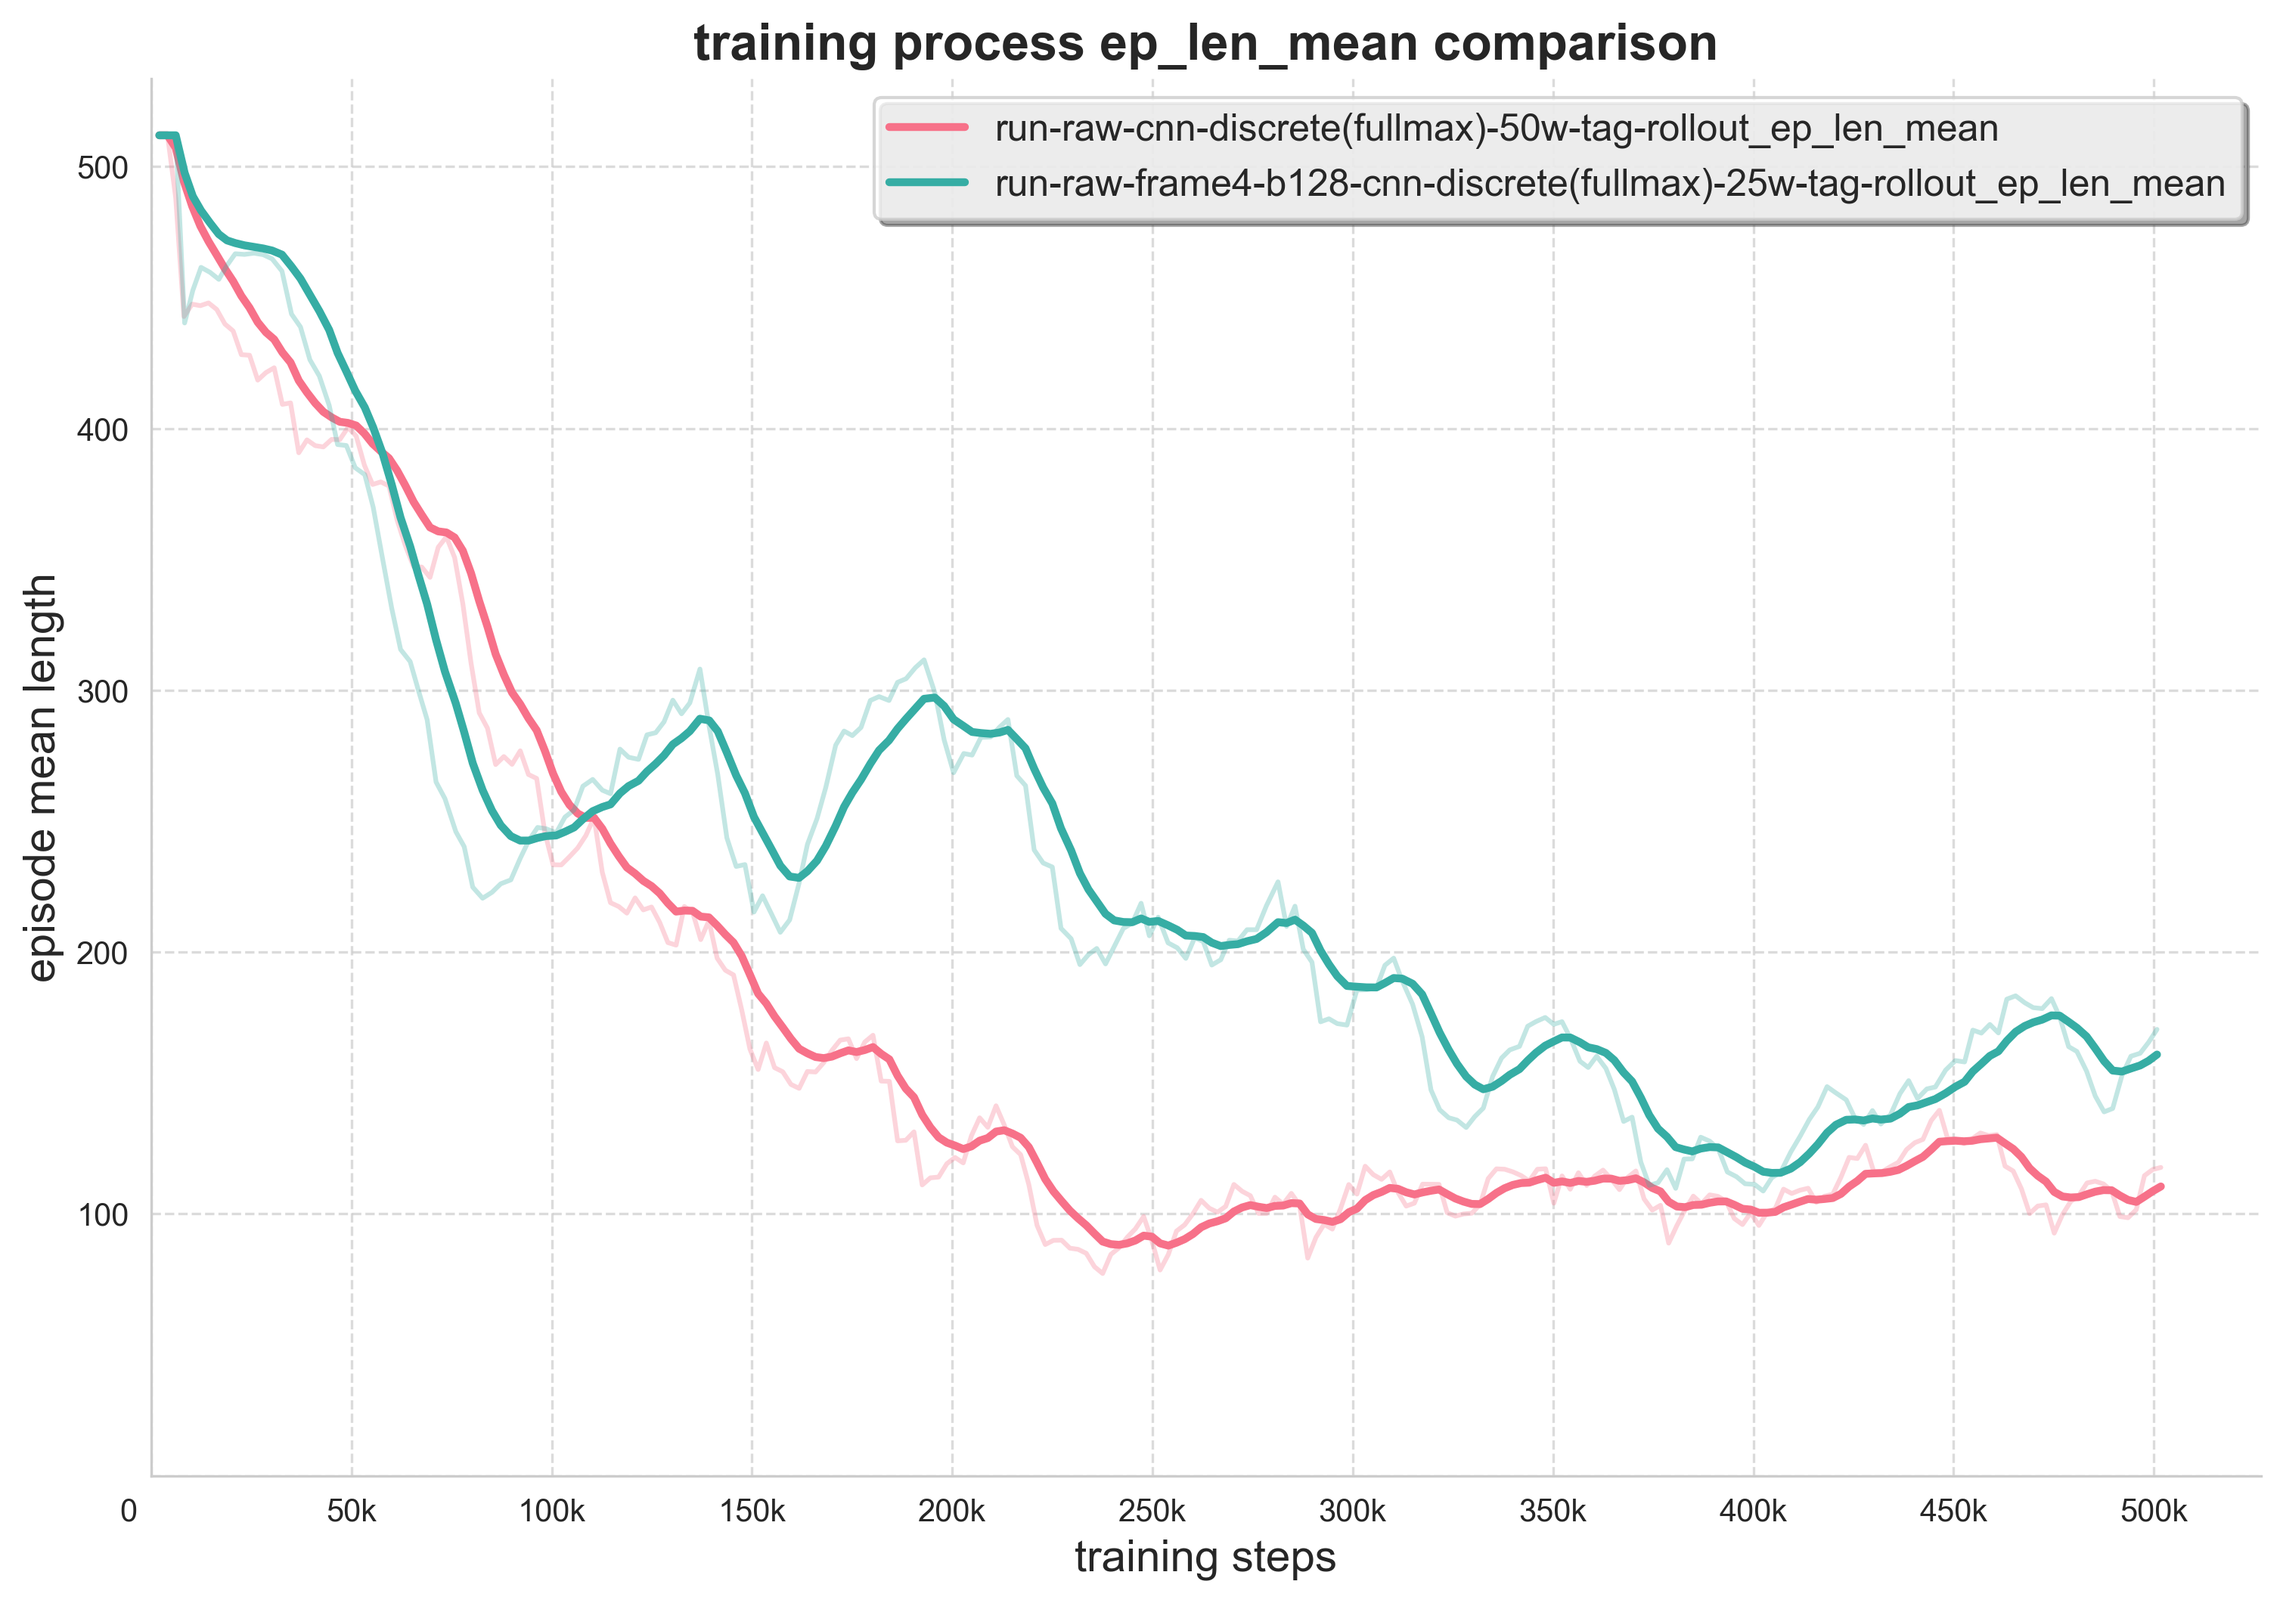
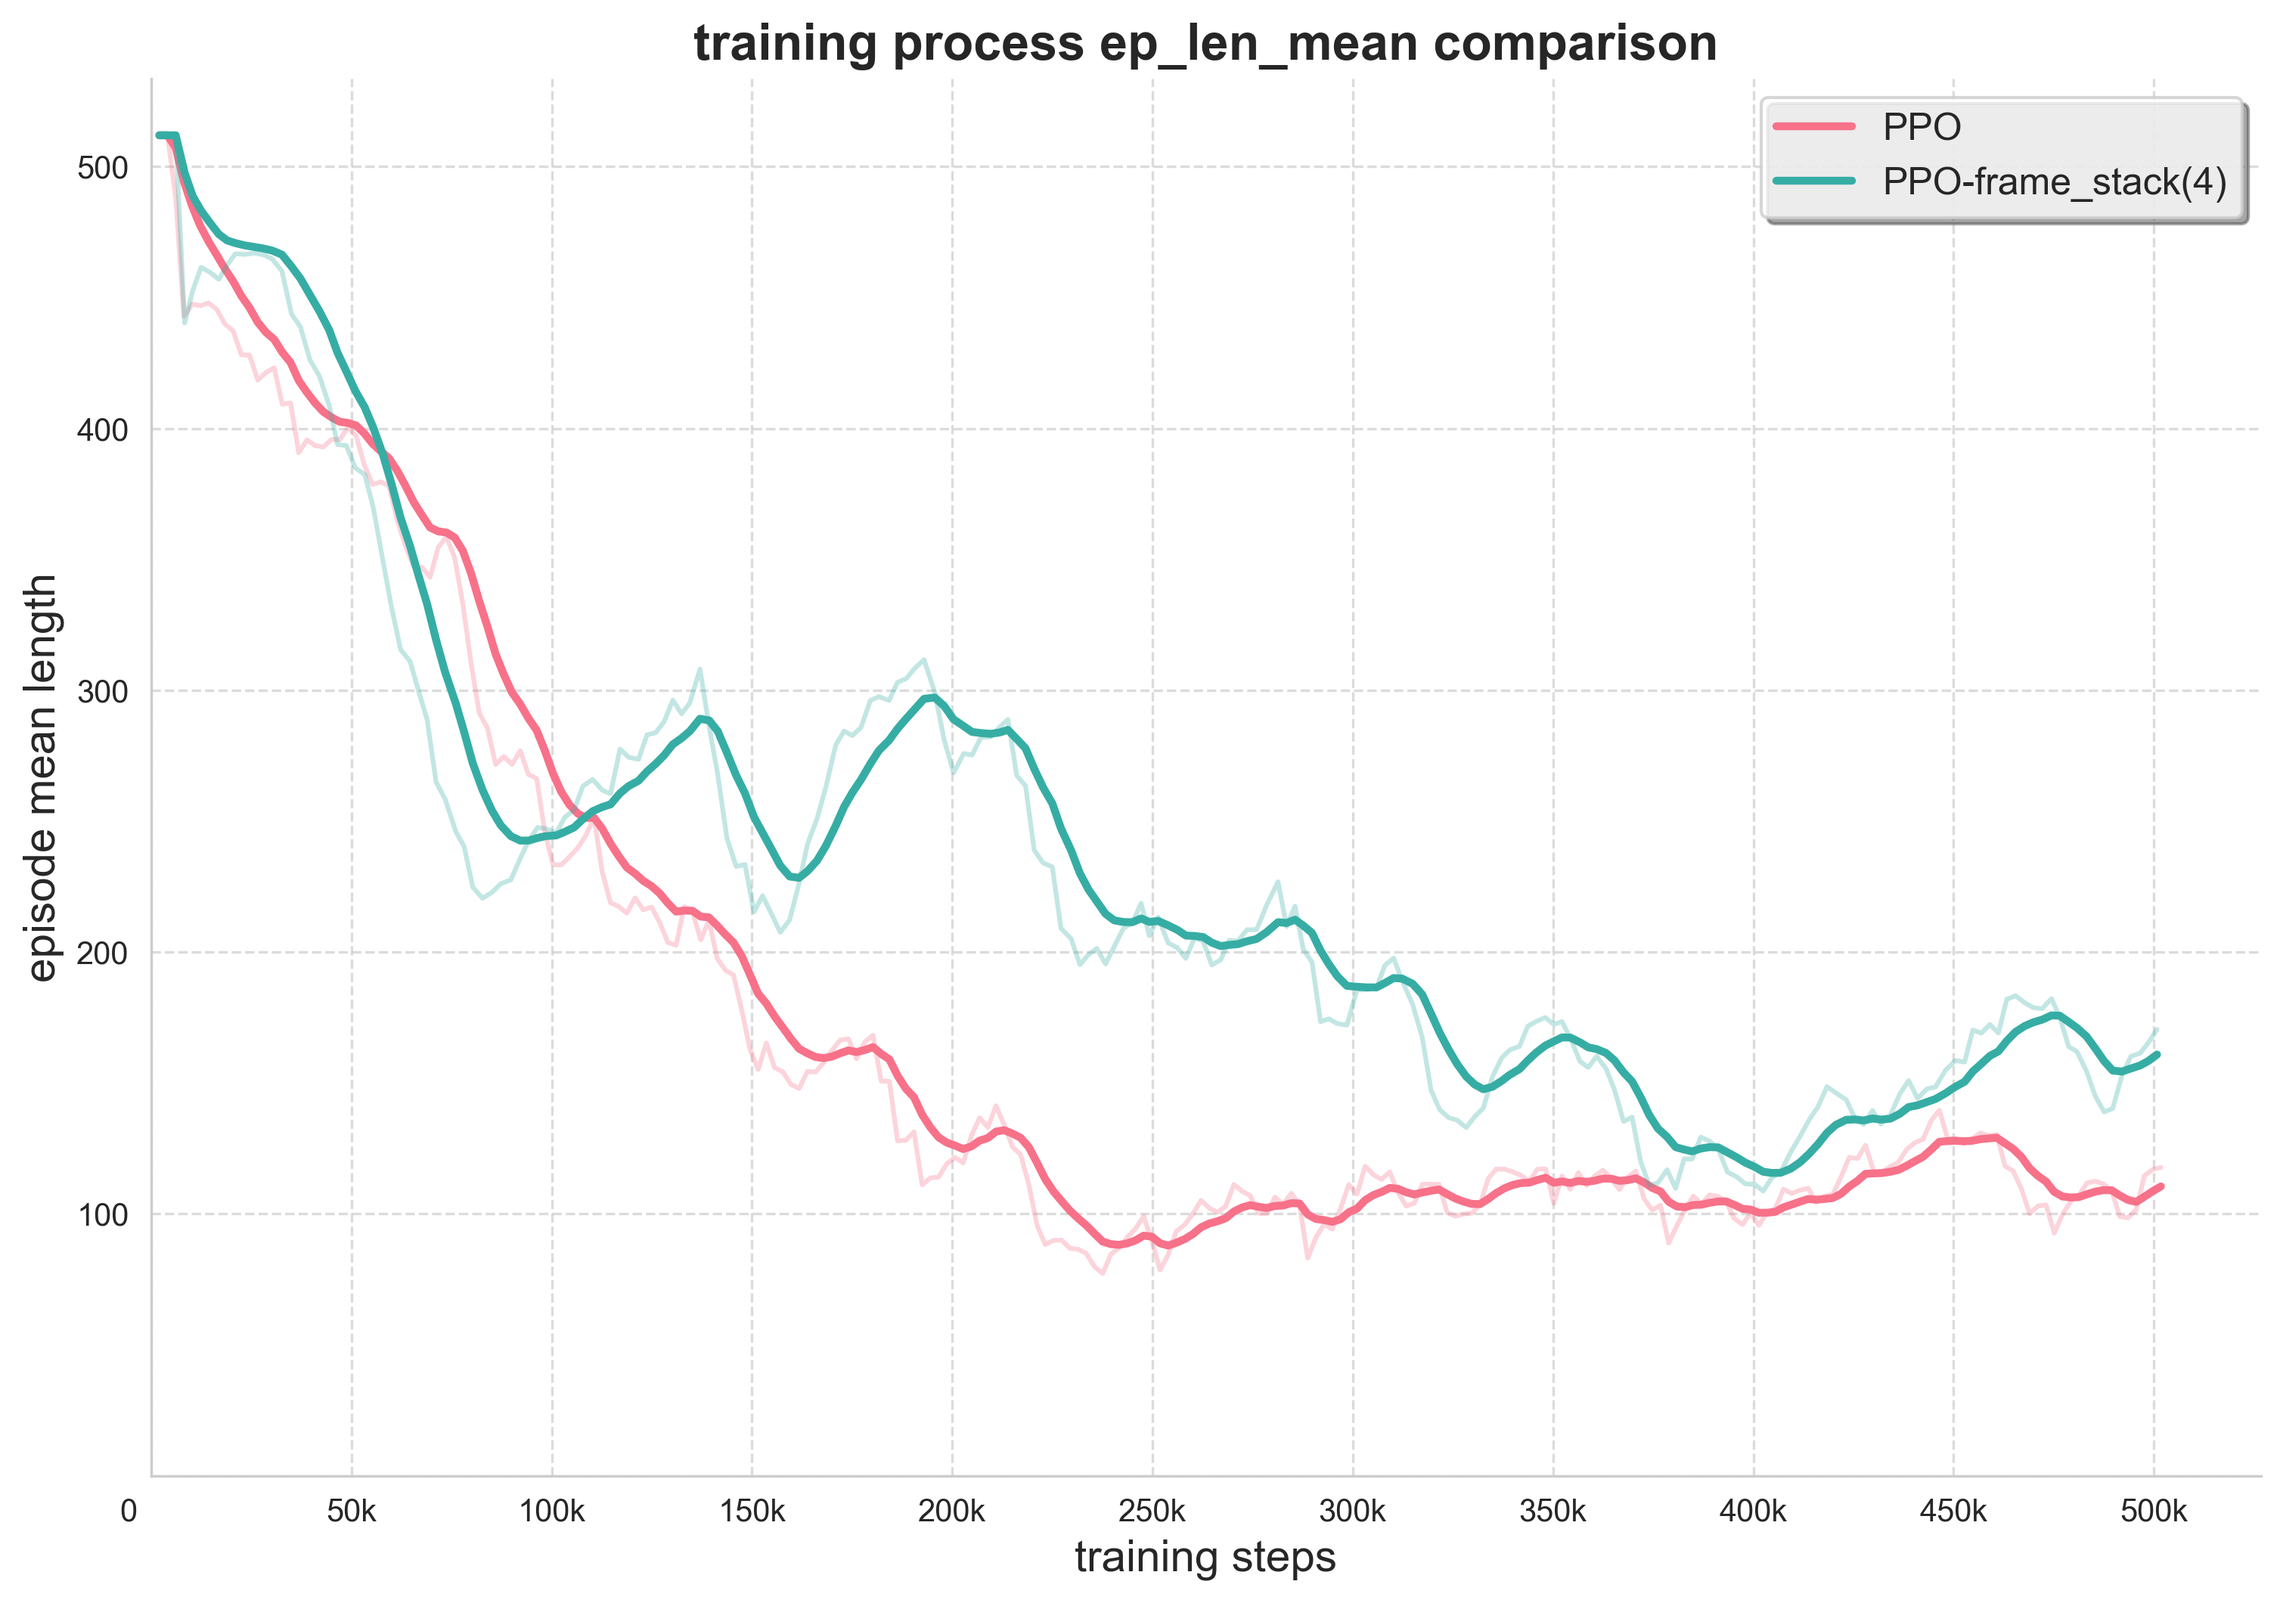
fix vec norm data load.

Changed region(s): [[0.3736, 0.0623, 0.9652, 0.1557]]

diff --git a/train_ppo.py b/train_ppo.py
@@ -186,12 +186,13 @@ def test(args, config,
         import numpy as np
         
         if not random_action and args.model_path:
-            # 检查是否存在对应的VecNormalize统计数据
-            env_stats_path = args.model_path + "_vecnorm.pkl"
-            use_vecnorm = os.path.exists(env_stats_path)
+            # 判断同级目录下是否存在pkl文件
+            model_dir = os.path.dirname(args.model_path)
+            pkl_files = [f for f in os.listdir(model_dir) if f.endswith('.pkl')]
+            use_vecnorm = len(pkl_files) > 0
             
             if use_vecnorm:
-                print(f"找到环境标准化统计数据: {env_stats_path}")
+                print(f"找到环境标准化统计数据: {pkl_files[0]}")
                 # 创建向量化环境用于标准化
                 vec_env = make_vec_env(
                     config.env_id, 
@@ -212,7 +213,7 @@ def test(args, config,
                     vec_env = VecFrameStack(vec_env, n_stack=config.frame_stack_size)
                 
                 # 加载保存的标准化统计数据
-                vec_env = VecNormalize.load(env_stats_path, vec_env)
+                vec_env = VecNormalize.load(os.path.join(model_dir, pkl_files[0]), vec_env)
                 # 测试时不更新标准化统计数据
                 vec_env.training = False
                 vec_env.norm_reward = False
@@ -654,7 +655,7 @@ if __name__ == "__main__":
         train(args, config, algorithm=PPO_NAME)
     elif args.action == "test":
         test(args, config, 
-             test_episode=10, 
+             test_episode=100, 
              no_graph=False, 
              save_video=args.video, 
              random_action=False)
